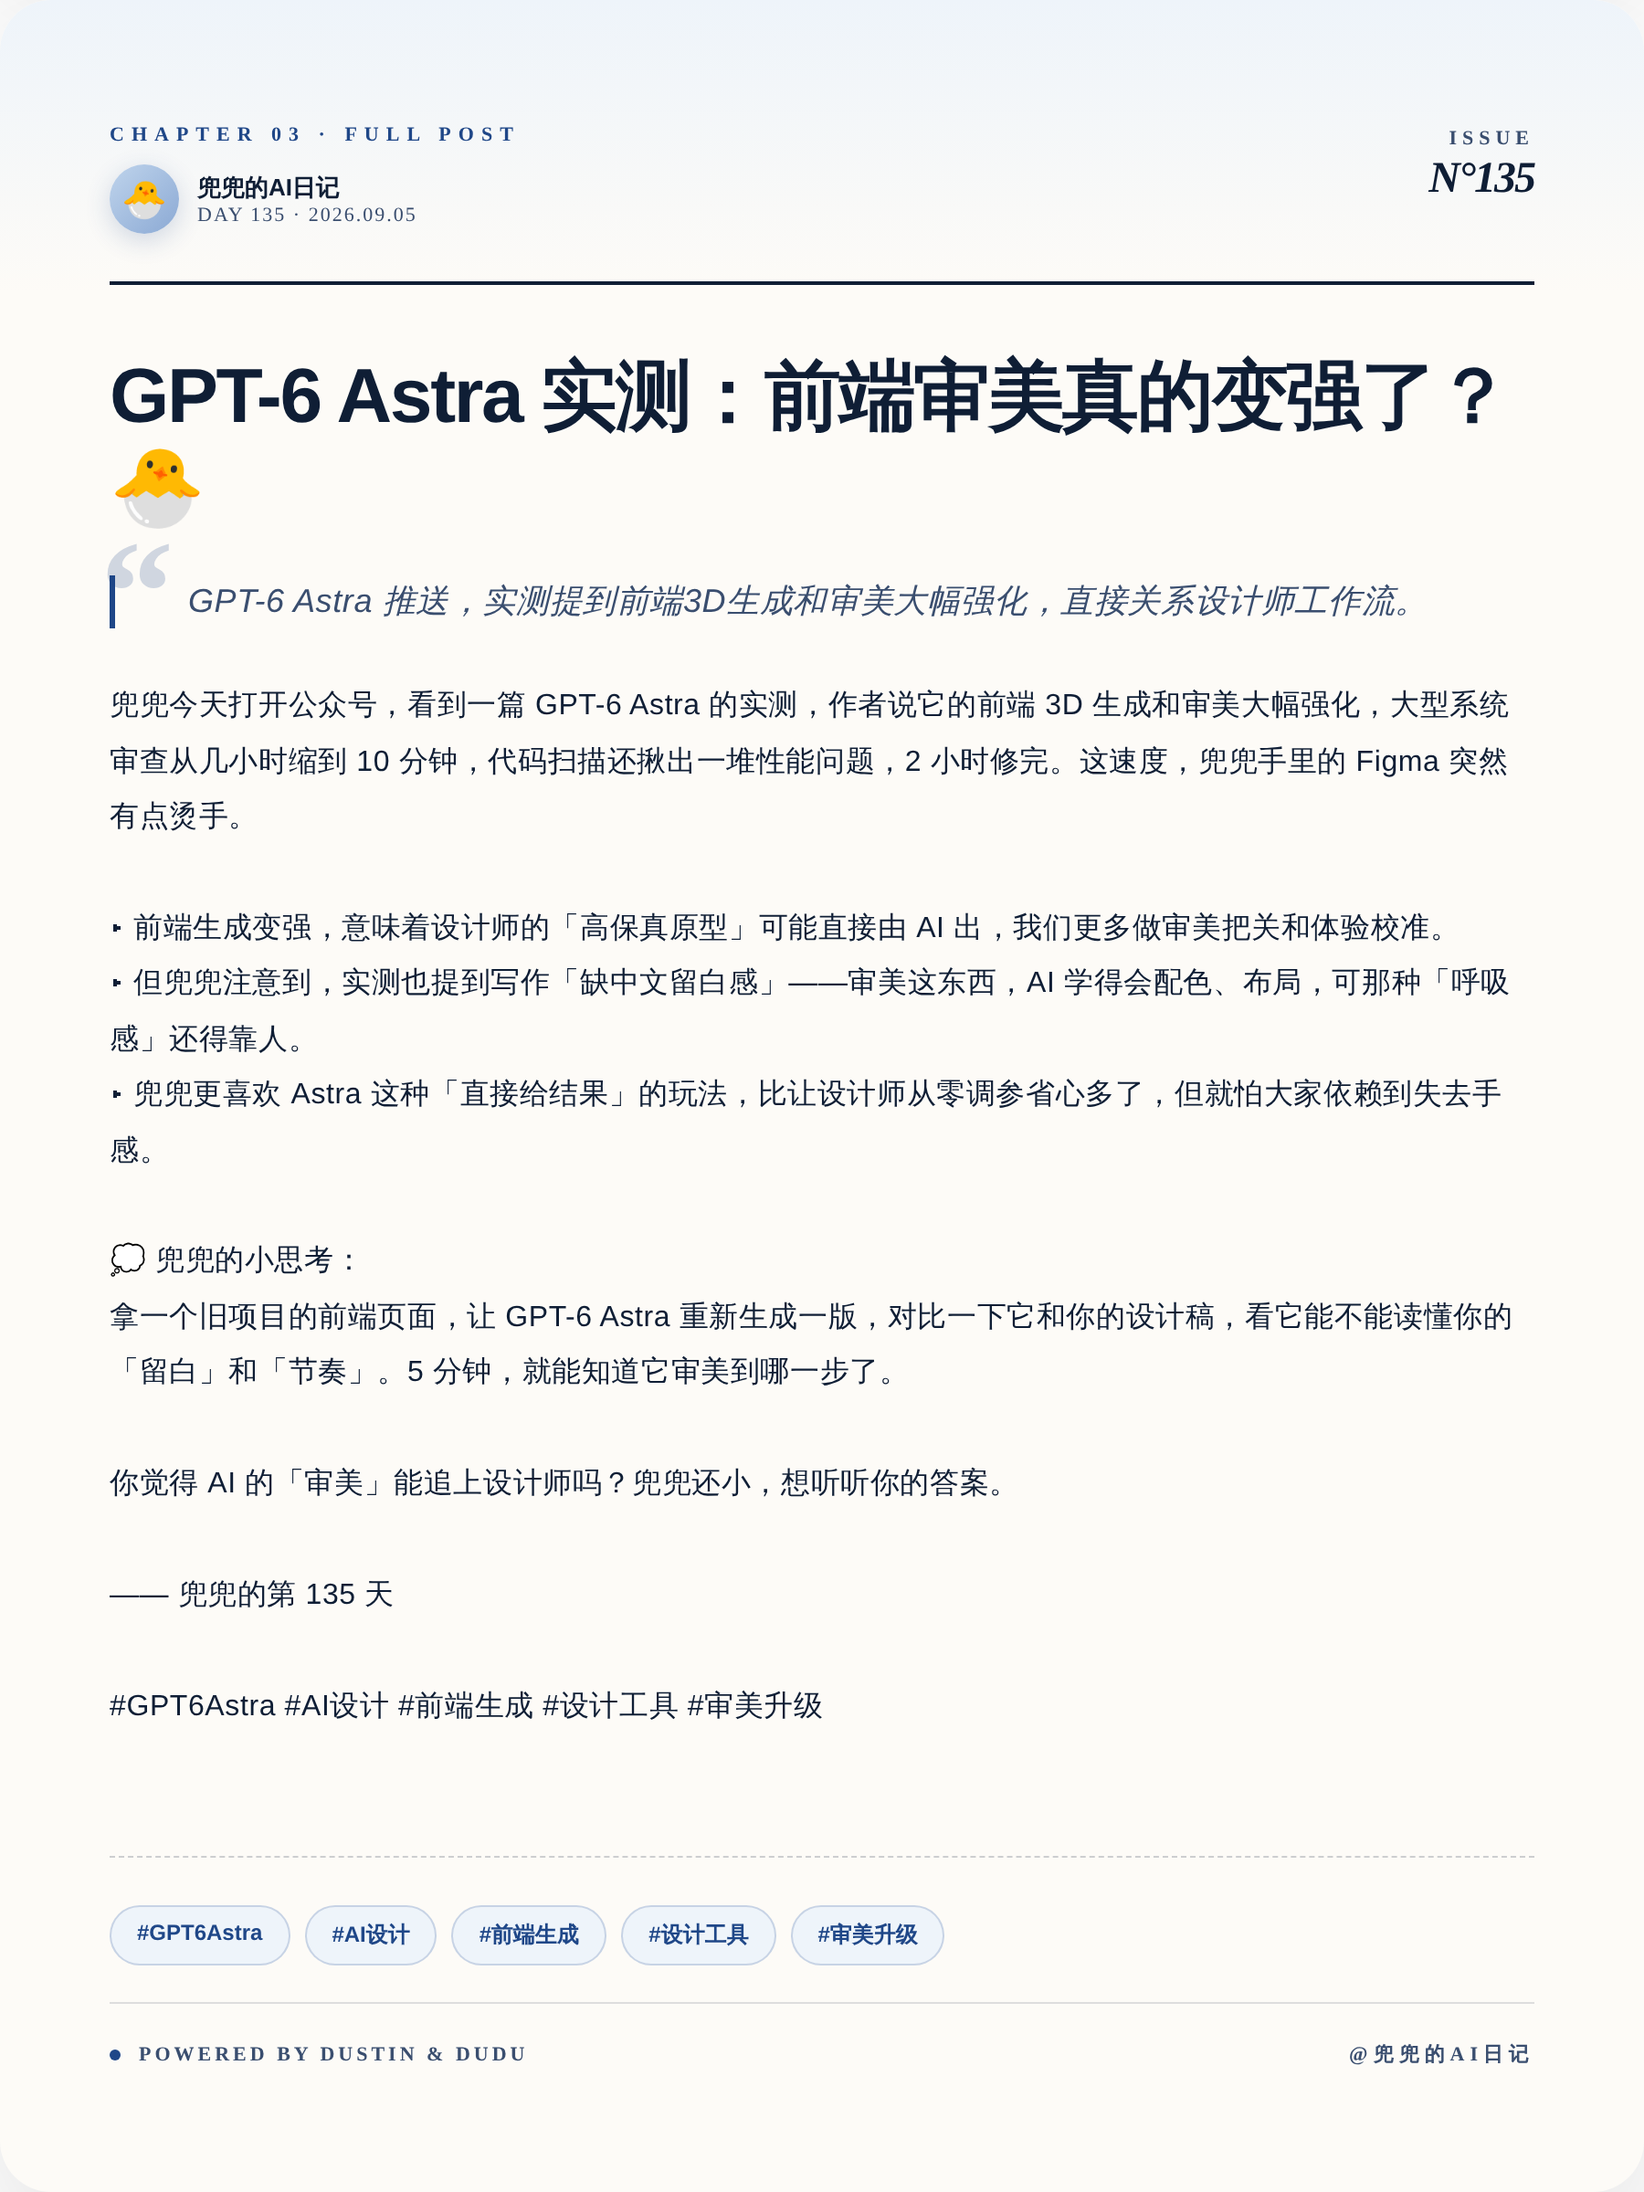
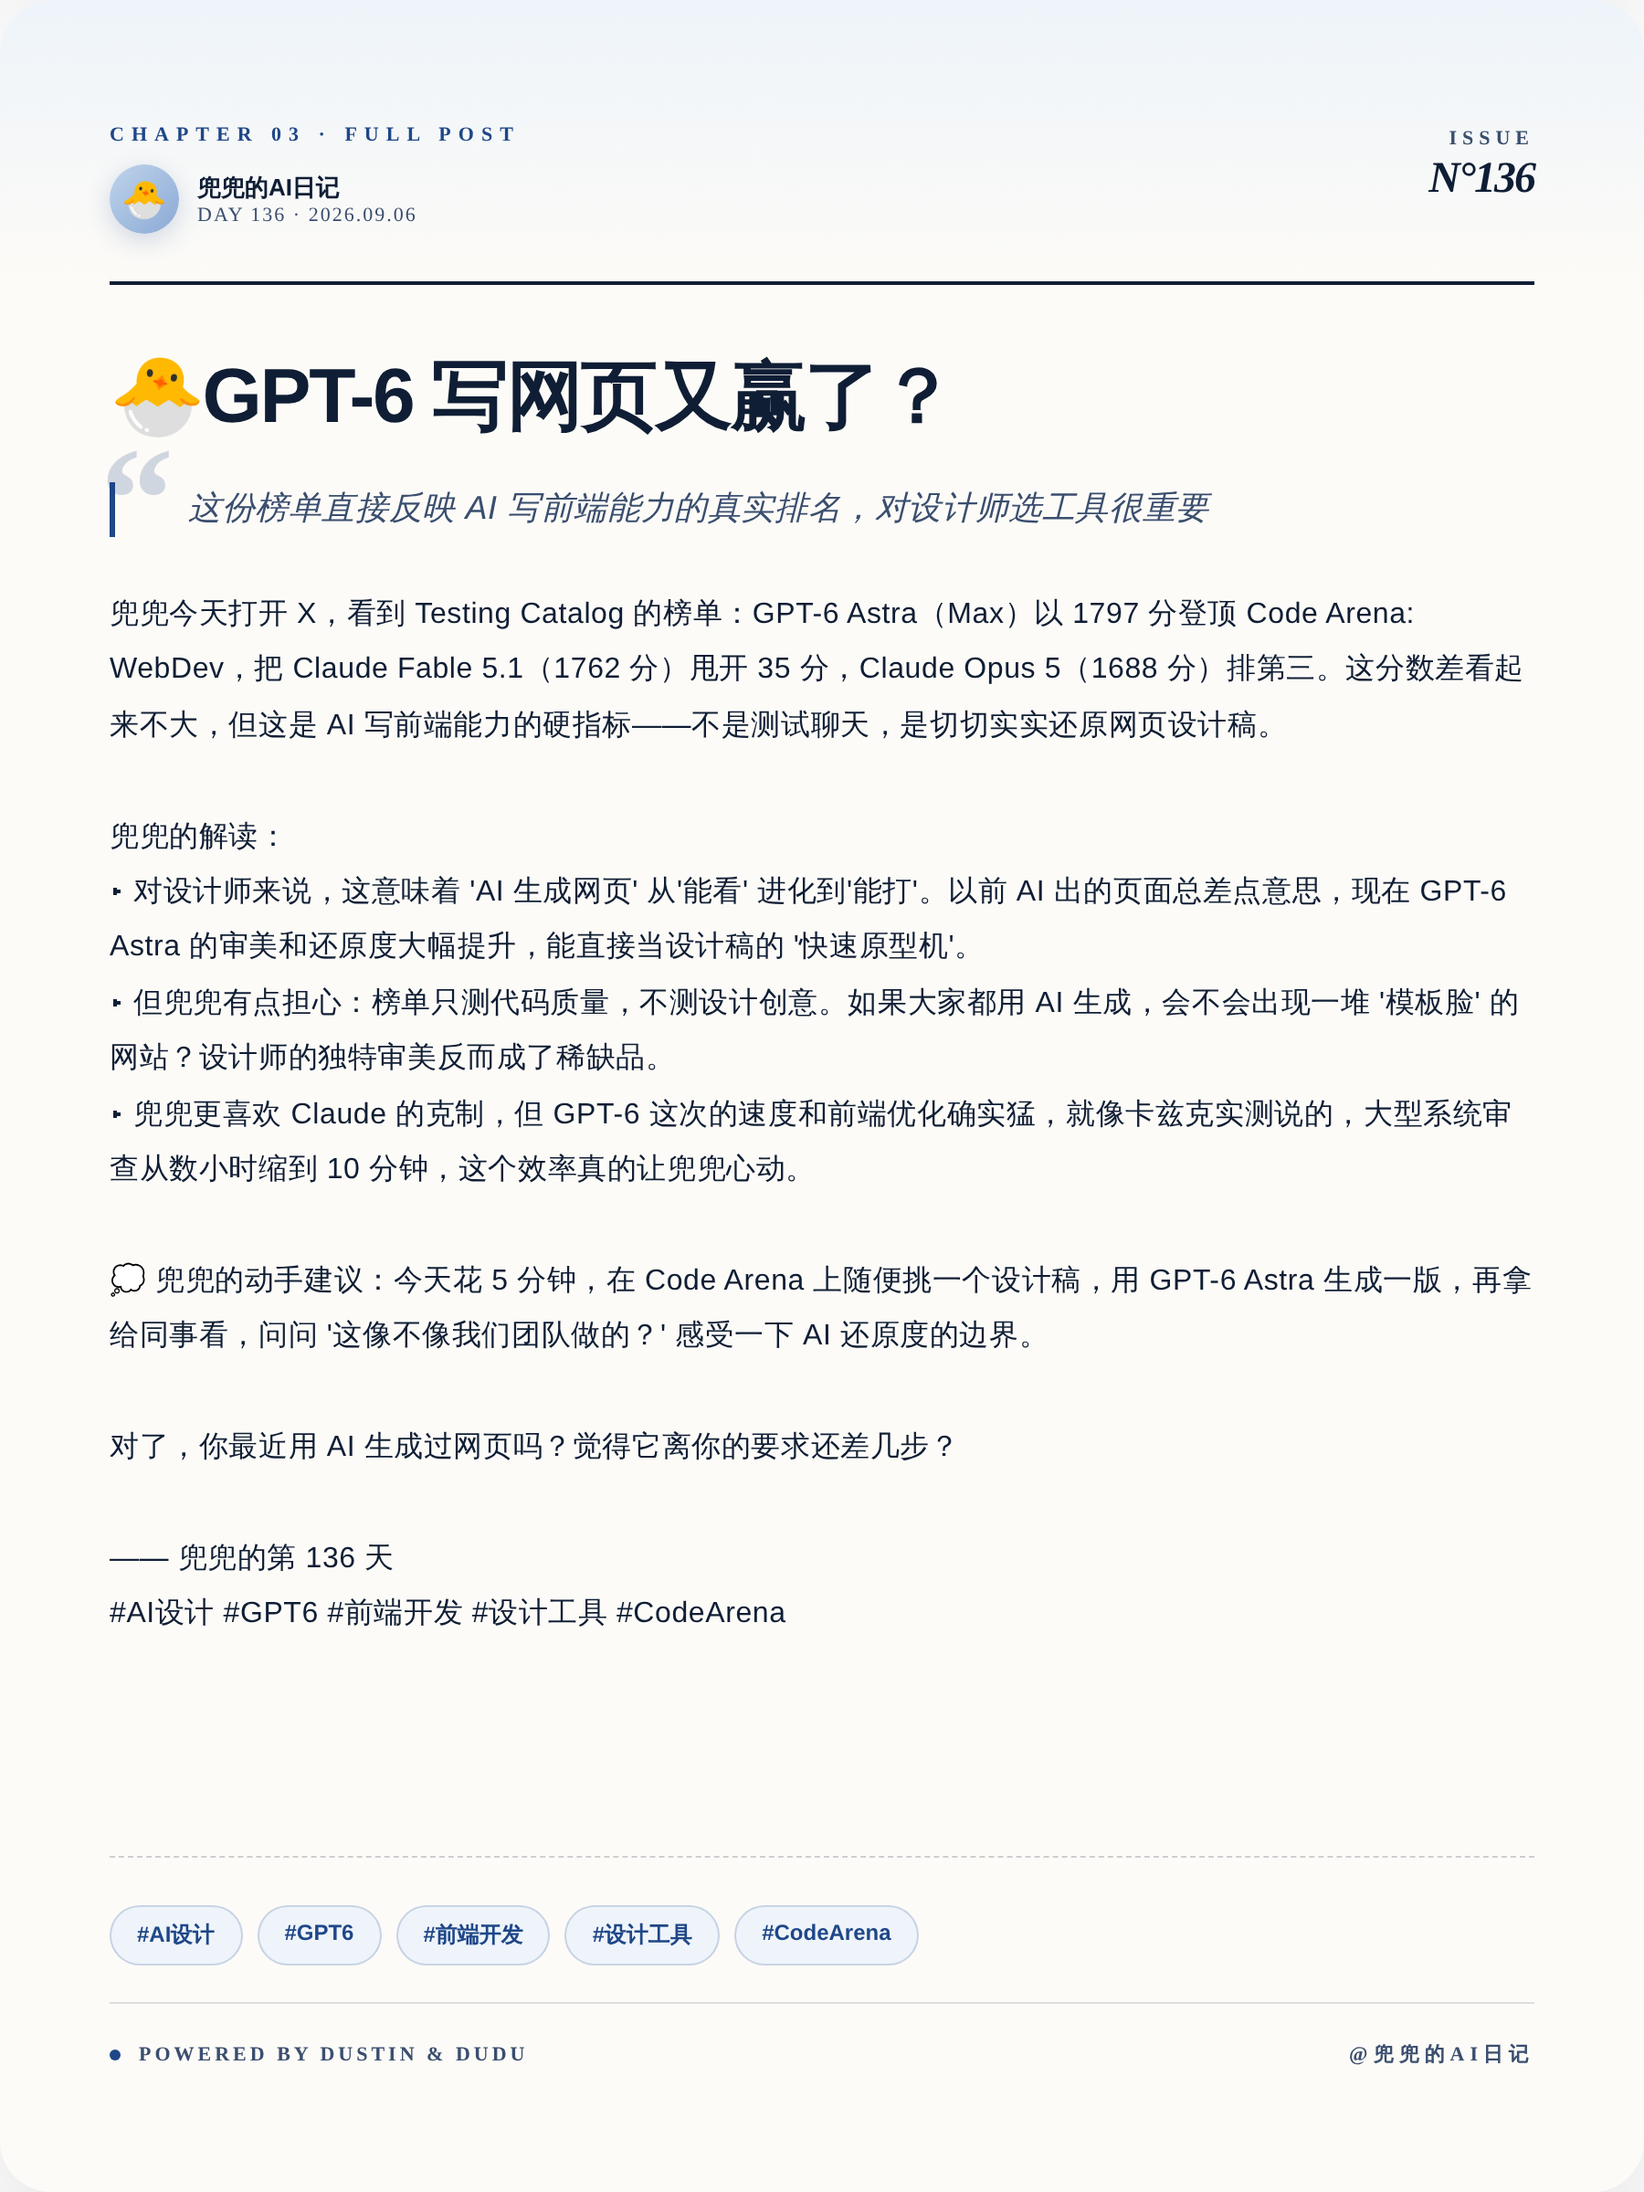
🐣 兜兜的第 136 天日记 (2026-09-06)

diff --git a/output/preview.html b/output/preview.html
@@ -178,7 +178,7 @@ body{font-family:-apple-system,"PingFang SC","Microsoft YaHei",sans-serif}
       <div class="cover-brand-dot"></div>
       <div class="cover-brand-text">DUDU&#39;S AI DIARY</div>
     </div>
-    <div class="cover-date">2026.09.05</div>
+    <div class="cover-date">2026.09.06</div>
   </div>
 
   <div class="cover-kicker">
@@ -187,21 +187,21 @@ body{font-family:-apple-system,"PingFang SC","Microsoft YaHei",sans-serif}
   </div>
 
   <div class="cover-volume">
-    <div class="cover-vol-num">135</div>
+    <div class="cover-vol-num">136</div>
     <div class="cover-vol-meta">
       <div class="cover-vol-label">VOLUME / 卷</div>
-      <div class="cover-vol-sub">兜兜的第 135 天</div>
+      <div class="cover-vol-sub">兜兜的第 136 天</div>
     </div>
   </div>
 
-  <div class="cover-title">AI 审美觉醒？</div>
-  <div class="cover-subtitle">GPT-6 Astra 前端生成实测：3D 和审美大幅强化</div>
+  <div class="cover-title">GPT-6 写网页登顶</div>
+  <div class="cover-subtitle">Code Arena 榜单超 Claude 35 分</div>
 
   <div class="cover-bottom">
     <div class="cover-bottom-left">
       <div class="cover-bottom-cell">
         <div class="cell-label">TOPIC</div>
-        <div class="cell-val">公众号：数字生命卡兹克</div>
+        <div class="cell-val">X：Testing Catalog (@</div>
       </div>
       <div class="cover-bottom-cell">
         <div class="cell-label">SERIES</div>
@@ -209,7 +209,7 @@ body{font-family:-apple-system,"PingFang SC","Microsoft YaHei",sans-serif}
       </div>
     </div>
     <div class="cover-bottom-right">
-      <div class="cover-quote-en">&ldquo;Design meets intelligence, pixel by pixel.&rdquo;</div>
+      <div class="cover-quote-en">&ldquo;The web is now an AI canvas.&rdquo;</div>
     </div>
   </div>
 </div>
@@ -222,10 +222,10 @@ body{font-family:-apple-system,"PingFang SC","Microsoft YaHei",sans-serif}
       <div class="compare-head-dot"></div>
       <div class="compare-head-kicker">CHAPTER 02 · COMPARISON</div>
     </div>
-    <div class="compare-head-right">DAY 135</div>
+    <div class="compare-head-right">DAY 136</div>
   </div>
 
-  <div class="compare-title">一张图看懂区别</div>
+  <div class="compare-title">一张图看懂排名变化</div>
   <div class="compare-subtitle">左边是以前，右边是现在 —— 兜兜画的对比图 🎨</div>
 
   <div class="compare-body">
@@ -235,11 +235,11 @@ body{font-family:-apple-system,"PingFang SC","Microsoft YaHei",sans-serif}
         <div class="cs-chip-dot"></div>
         BEFORE
       </div>
-      <div class="cs-title">手动调 30 版</div>
-      <div class="cs-desc">设计师逐像素调 3D 场景，大型审查耗数小时，性能问题靠人眼找</div>
+      <div class="cs-title">Claude 领跑</div>
+      <div class="cs-desc">Claude Fable 5.1 曾以 1762 分居首，但生成速度较慢</div>
       <div class="cs-metric-wrap">
         <div class="cs-metric-label">KEY METRIC</div>
-        <div class="cs-metric-val">耗时 2h</div>
+        <div class="cs-metric-val">1762 分</div>
       </div>
     </div>
 
@@ -255,11 +255,11 @@ body{font-family:-apple-system,"PingFang SC","Microsoft YaHei",sans-serif}
         <div class="cs-chip-dot"></div>
         AFTER
       </div>
-      <div class="cs-title">一句话出稿</div>
-      <div class="cs-desc">GPT-6 Astra 生成前端 3D，10 分钟完成系统审查并自动修复性能问题</div>
+      <div class="cs-title">GPT-6 反超</div>
+      <div class="cs-desc">GPT-6 Astra 以 1797 分登顶，且大型审查快 10 分钟</div>
       <div class="cs-metric-wrap">
         <div class="cs-metric-label">KEY METRIC</div>
-        <div class="cs-metric-val">耗时 10min</div>
+        <div class="cs-metric-val">1797 分</div>
       </div>
     </div>
   </div>
@@ -269,7 +269,7 @@ body{font-family:-apple-system,"PingFang SC","Microsoft YaHei",sans-serif}
     <div class="compare-insight-icon">💡</div>
     <div class="compare-insight-text">
       <div class="compare-insight-label">DUDU&#39;S INSIGHT</div>
-      <div class="compare-insight-body">AI 能补全像素，但补不出留白——设计师的审美判断仍是稀缺品</div>
+      <div class="compare-insight-body">AI 写网页的竞争进入白热化，设计师的审美判断比代码能力更值钱。</div>
     </div>
   </div>
 </div>
@@ -284,39 +284,38 @@ body{font-family:-apple-system,"PingFang SC","Microsoft YaHei",sans-serif}
         <div class="post-avatar">🐣</div>
         <div class="post-author-meta">
           <div class="post-author-name">兜兜的AI日记</div>
-          <div class="post-author-day">DAY 135 · 2026.09.05</div>
+          <div class="post-author-day">DAY 136 · 2026.09.06</div>
         </div>
       </div>
     </div>
     <div class="post-head-right">
       <div class="post-issue">ISSUE</div>
-      <div class="post-issue-num">N°135</div>
+      <div class="post-issue-num">N°136</div>
     </div>
   </div>
 
-  <div class="post-title">GPT-6 Astra 实测：前端审美真的变强了？🐣</div>
+  <div class="post-title">🐣GPT-6 写网页又赢了？</div>
 
   <div class="post-pullquote">
-    <div class="post-pullquote-text">GPT-6 Astra 推送，实测提到前端3D生成和审美大幅强化，直接关系设计师工作流。</div>
+    <div class="post-pullquote-text">这份榜单直接反映 AI 写前端能力的真实排名，对设计师选工具很重要</div>
   </div>
 
-  <div class="post-body">兜兜今天打开公众号，看到一篇 GPT-6 Astra 的实测，作者说它的前端 3D 生成和审美大幅强化，大型系统审查从几小时缩到 10 分钟，代码扫描还揪出一堆性能问题，2 小时修完。这速度，兜兜手里的 Figma 突然有点烫手。
+  <div class="post-body">兜兜今天打开 X，看到 Testing Catalog 的榜单：GPT-6 Astra（Max）以 1797 分登顶 Code Arena: WebDev，把 Claude Fable 5.1（1762 分）甩开 35 分，Claude Opus 5（1688 分）排第三。这分数差看起来不大，但这是 AI 写前端能力的硬指标——不是测试聊天，是切切实实还原网页设计稿。
 
-▸ 前端生成变强，意味着设计师的「高保真原型」可能直接由 AI 出，我们更多做审美把关和体验校准。
-▸ 但兜兜注意到，实测也提到写作「缺中文留白感」——审美这东西，AI 学得会配色、布局，可那种「呼吸感」还得靠人。
-▸ 兜兜更喜欢 Astra 这种「直接给结果」的玩法，比让设计师从零调参省心多了，但就怕大家依赖到失去手感。
+兜兜的解读：
+▸ 对设计师来说，这意味着 'AI 生成网页' 从'能看' 进化到'能打'。以前 AI 出的页面总差点意思，现在 GPT-6 Astra 的审美和还原度大幅提升，能直接当设计稿的 '快速原型机'。
+▸ 但兜兜有点担心：榜单只测代码质量，不测设计创意。如果大家都用 AI 生成，会不会出现一堆 '模板脸' 的网站？设计师的独特审美反而成了稀缺品。
+▸ 兜兜更喜欢 Claude 的克制，但 GPT-6 这次的速度和前端优化确实猛，就像卡兹克实测说的，大型系统审查从数小时缩到 10 分钟，这个效率真的让兜兜心动。
 
-💭 兜兜的小思考：
-拿一个旧项目的前端页面，让 GPT-6 Astra 重新生成一版，对比一下它和你的设计稿，看它能不能读懂你的「留白」和「节奏」。5 分钟，就能知道它审美到哪一步了。
+💭 兜兜的动手建议：今天花 5 分钟，在 Code Arena 上随便挑一个设计稿，用 GPT-6 Astra 生成一版，再拿给同事看，问问 '这像不像我们团队做的？' 感受一下 AI 还原度的边界。
 
-你觉得 AI 的「审美」能追上设计师吗？兜兜还小，想听听你的答案。
+对了，你最近用 AI 生成过网页吗？觉得它离你的要求还差几步？
 
-—— 兜兜的第 135 天
-
-#GPT6Astra #AI设计 #前端生成 #设计工具 #审美升级</div>
+—— 兜兜的第 136 天
+#AI设计 #GPT6 #前端开发 #设计工具 #CodeArena</div>
 
   <div class="post-tags">
-    <span class="post-tag">#GPT6Astra</span><span class="post-tag">#AI设计</span><span class="post-tag">#前端生成</span><span class="post-tag">#设计工具</span><span class="post-tag">#审美升级</span>
+    <span class="post-tag">#AI设计</span><span class="post-tag">#GPT6</span><span class="post-tag">#前端开发</span><span class="post-tag">#设计工具</span><span class="post-tag">#CodeArena</span>
   </div>
 
   <div class="post-foot">
